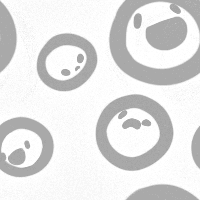
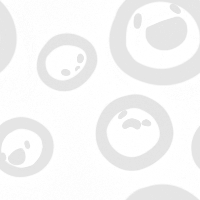
wall and background color now change depending on the world
TODO: choose better colors

diff --git a/src/game.cpp b/src/game.cpp
@@ -130,6 +130,11 @@ void Game::mainLoop()
                 break;
 
             case GameState::mainMenu:
+                WALLCOLOR = RGBA8( 144, 145, 194, 255 );
+                BGCOLOR = RGBA8( 97, 90, 160, 255 );
+                inMenu();
+                break;
+
             case GameState::levelMenu:
             case GameState::paused:
             case GameState::optionsMenu:
@@ -321,7 +326,6 @@ void Game::inMenu()
                 gameState = GameState::mainMenu;
             }
             // Handle switching between level select screens
-            // TODO move this to menu.hpp/.cpp if possible
             if( Input::wasPressed( Input::Button::lTrigger ) )
             {
                 if( selectedLevelList > 0 )
@@ -341,6 +345,23 @@ void Game::inMenu()
                     selectedLevelList = 0;
                 }
                 Sound::soloud.play( Sound::menuMove );
+            }
+            
+            switch( selectedLevelList )
+            {
+                case 0:
+                case 1:
+                    WALLCOLOR = RGBA8( 144, 145, 194, 255 );
+                    BGCOLOR = RGBA8( 97, 90, 160, 255 );
+                    break;
+                case 2:
+                    WALLCOLOR = RGBA8( 101, 133, 101, 255 );
+                    BGCOLOR = RGBA8( 47, 92, 48, 255 );
+                    break;
+                default:
+                    WALLCOLOR = RGBA8( 144, 145, 194, 255 );
+                    BGCOLOR = RGBA8( 97, 90, 160, 255 );
+                    break;
             }
 
             if( levelMenus[ selectedLevelList ].selectPressed() )

diff --git a/src/common.cpp b/src/common.cpp
@@ -15,7 +15,7 @@ bool ENABLE_TOUCH = true;
 bool alreadyShowedCompleteMessage = false;
 
 unsigned int WALLCOLOR = RGBA8( 144, 145, 194, 255 );
-unsigned int BGCOLOR = RGBA8( 99, 92, 149, 255 );
+unsigned int BGCOLOR = RGBA8( 97, 90, 160, 255 );
 
 void calcFrameTime()
 {	
